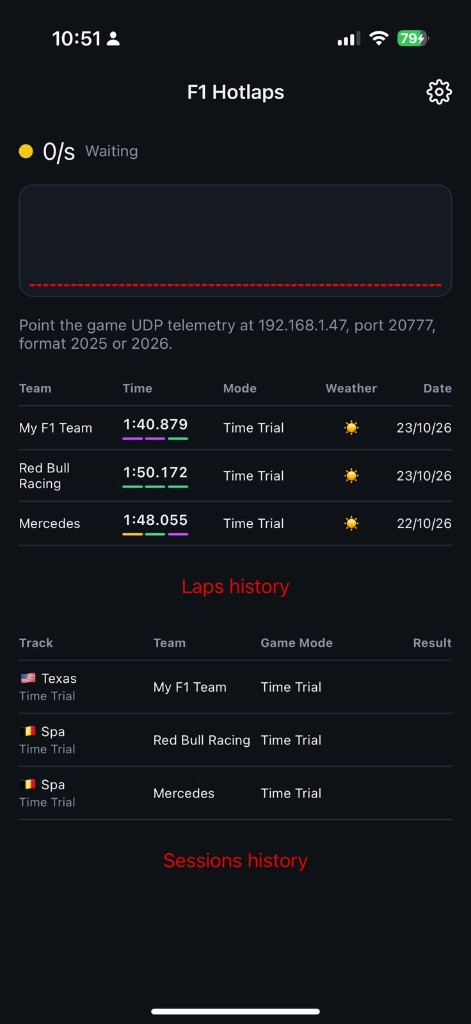
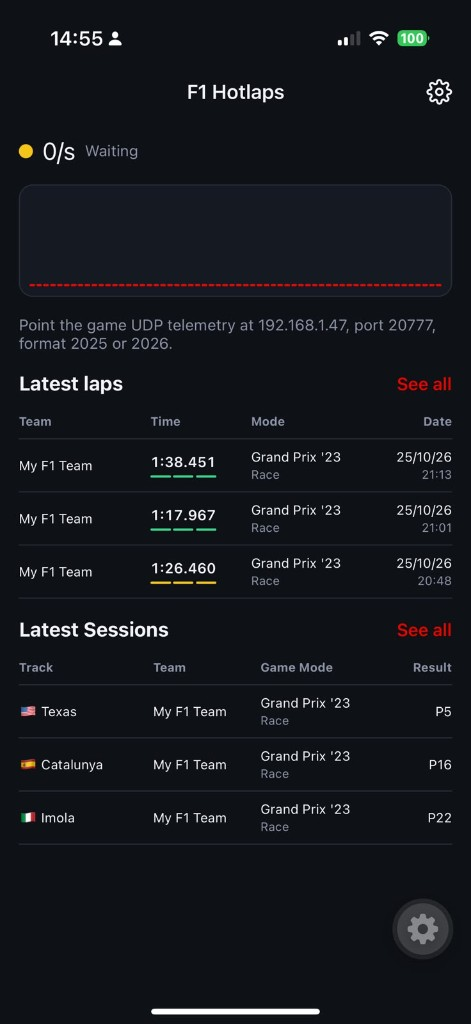
Explain that stored Laps never leave the phone, and refresh the README with the current screens.

diff --git a/app/config.tsx b/app/config.tsx
@@ -133,6 +133,10 @@ export default function ConfigScreen() {
           />
         </View>
       </View>
+      <Text style={styles.note}>
+        Sessions, Laps, and Traces stay on this phone. Nothing is shared or sent to a server, so deleting the app
+        deletes them. Export a copy to keep them somewhere else, and Import to bring that copy back.
+      </Text>
       <Text style={styles.muted}>Using {formatMegabytes(usedBytes)}</Text>
       <Pressable style={styles.action} onPress={() => void exportLaps(lapRepository())}>
         <Text style={styles.actionText}>Export</Text>
@@ -347,6 +351,7 @@ const styles = StyleSheet.create({
   title: { color: colors.text, fontSize: 16, fontWeight: "600" },
   value: { color: colors.text, fontSize: 18, fontVariant: ["tabular-nums"] },
   muted: { color: colors.muted },
+  note: { color: colors.muted, fontSize: 13, lineHeight: 18 },
   divider: { height: 1, backgroundColor: colors.border, marginVertical: 4 },
   iconBtn: {
     borderWidth: 1,

diff --git a/README.md b/README.md
@@ -7,8 +7,13 @@ This project is not affiliated with, endorsed by, or connected to Electronic Art
 <table>
   <tr>
     <td align="center" width="33%"><img src="docs/screenshots/home.jpg" width="220" alt="Home, waiting for telemetry"><br>Home, waiting for telemetry</td>
-    <td align="center" width="33%"><img src="docs/screenshots/laps.jpg" width="220" alt="Laps on Spa, newest first"><br>Laps on Spa, newest first</td>
-    <td align="center" width="33%"><img src="docs/screenshots/lap.jpg" width="220" alt="A lap at Spa, compared with the fastest"><br>A lap at Spa, compared with the fastest</td>
+    <td align="center" width="33%"><img src="docs/screenshots/laps.jpg" width="220" alt="Laps on Catalunya, newest first"><br>Laps on Catalunya, newest first</td>
+    <td align="center" width="33%"><img src="docs/screenshots/filter.jpg" width="220" alt="Filter by tyre, condition, and Game Mode"><br>Filter by tyre, condition, and Game Mode</td>
+  </tr>
+  <tr>
+    <td align="center" width="33%"><img src="docs/screenshots/lap.jpg" width="220" alt="A lap at Catalunya, compared with the fastest"><br>A lap at Catalunya, compared with the fastest</td>
+    <td align="center" width="33%"><img src="docs/screenshots/setup.jpg" width="220" alt="Setup for the lap"><br>Setup for the lap</td>
+    <td align="center" width="33%"><img src="docs/screenshots/config.jpg" width="220" alt="Config"><br>Config</td>
   </tr>
 </table>
 
